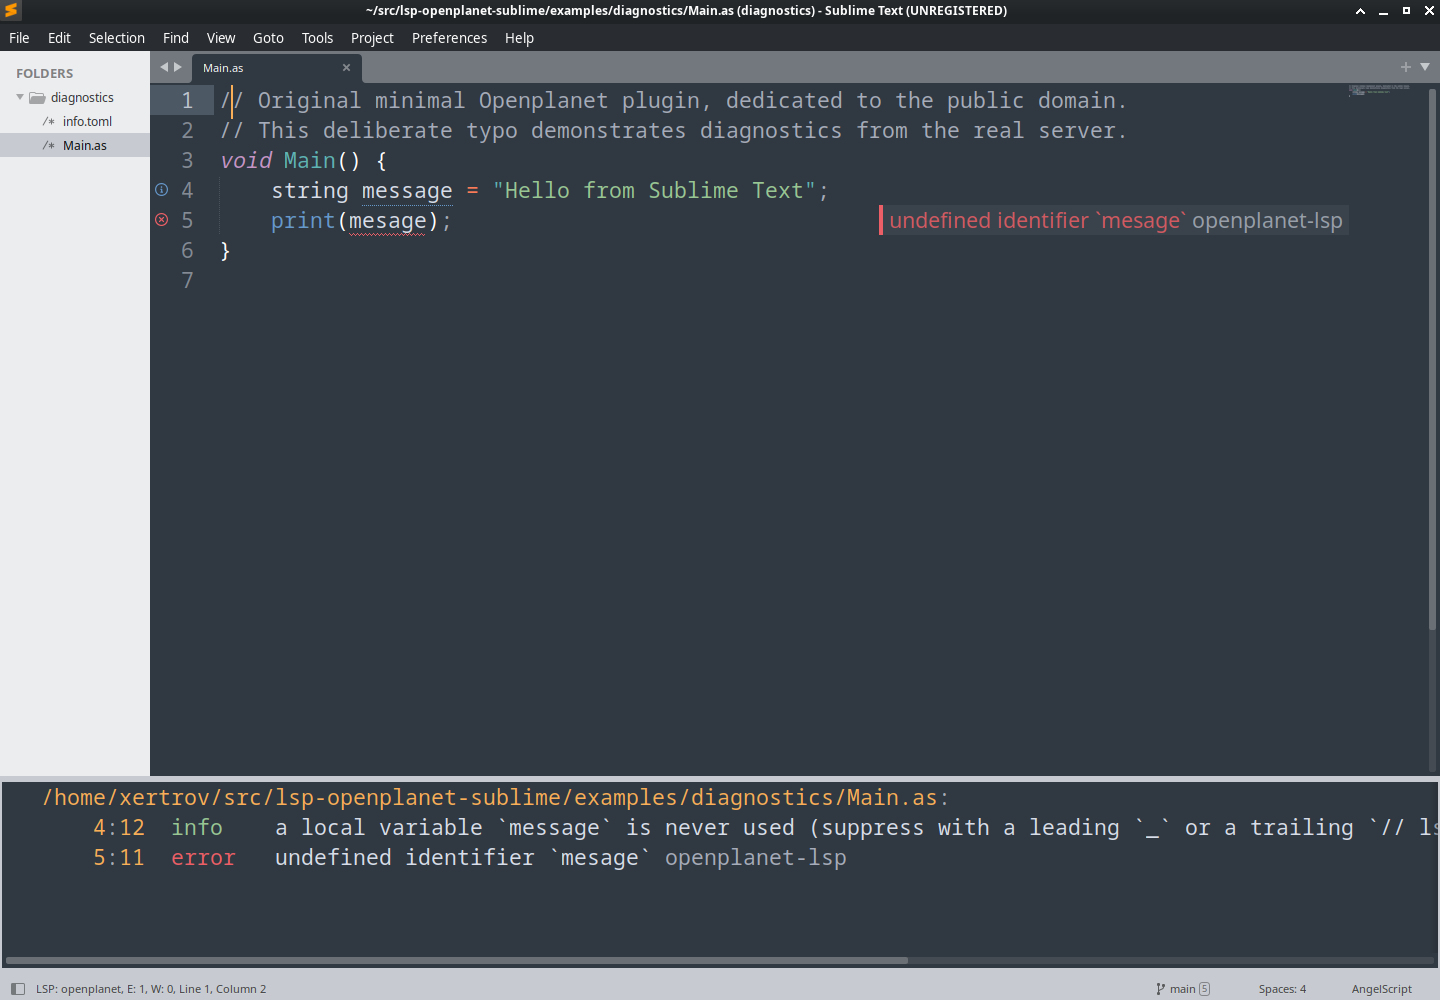
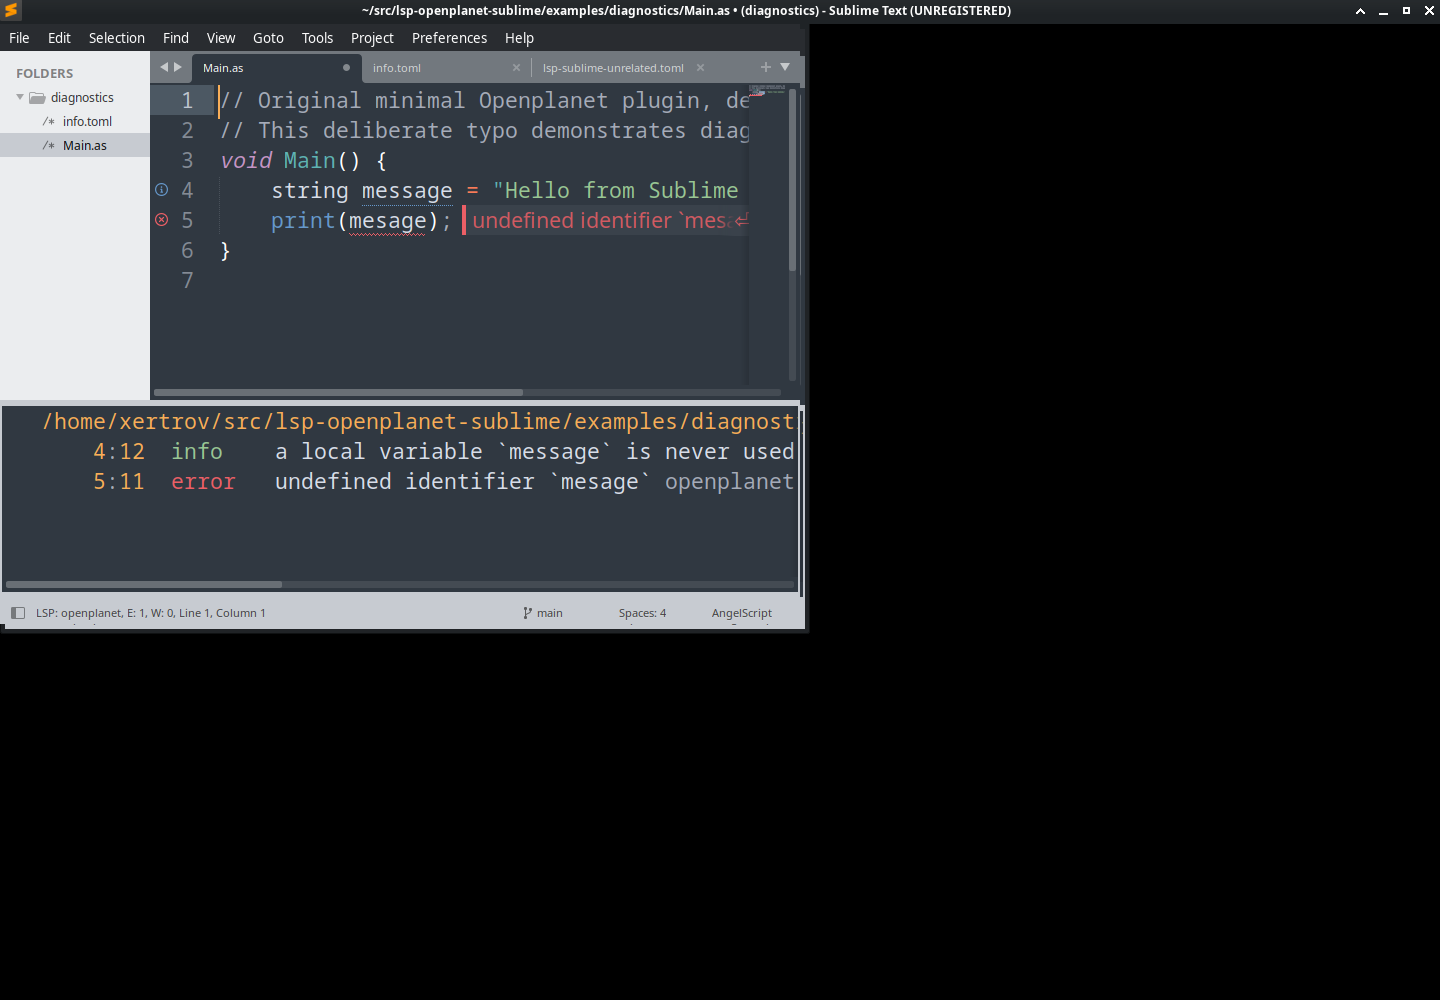
Record clean-start AngelScript and TOML editor smoke evidence

diff --git a/docs/verification.md b/docs/verification.md
@@ -44,4 +44,6 @@ A temporary harness reads LSP's actual session/buffer diagnostics. [`scripts/edi
 
 ## Review corrections
 
+The clean-start smoke also confirms the source is sent with `language_id: angelscript`. A symlinked temporary-directory run (`TMPDIR=/proc/self/root/tmp`) passed all 18 tests after resolving expected test paths, covering the macOS `/var` alias behavior.
+
 Real editor testing found mixed-version syntax inheritance; a red/green regression test was added and the grammar now includes the built-in C++ scope. Independent API review found and fixed `ClientConfig` access, PATH normalization, crossed syntax/file selection, and advertising additional loose roots. The local registry checker led to moving shared code into `lib/`, removing generated Package Control metadata from source, and aligning the settings menu.
